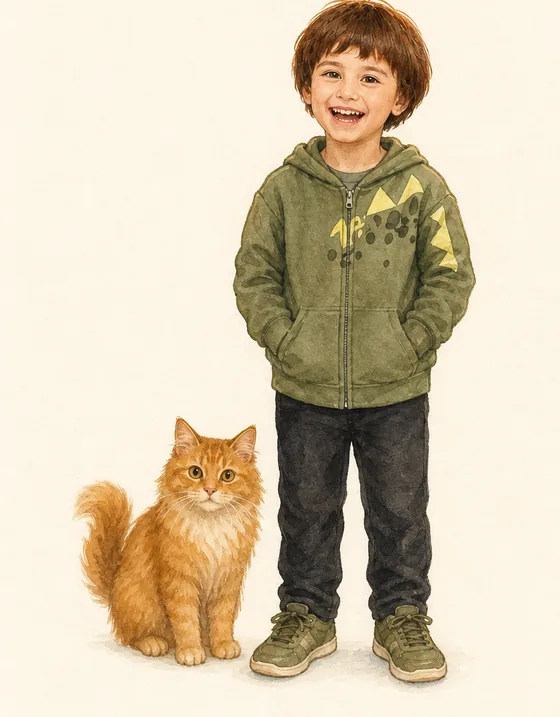
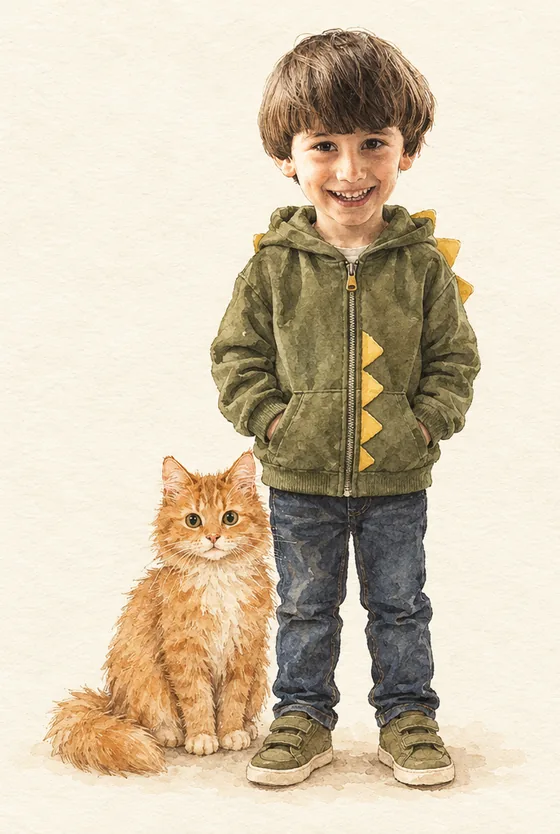
Главная: новая пара Макса «акварель / 3D» (3D перерисовано из акварели — один и тот же мальчик)

diff --git a/index.html b/index.html
@@ -169,8 +169,8 @@
         <p>Это Макс, 4 года, — один и тот же ребёнок в двух стилях. Стиль вы выбираете в анкете, а сходство с ребёнком проверяем в обоих.</p>
       </div>
       <div class="hs-row">
-        <figure><img src="assets/examples/styles/max-akvarel.webp" width="560" height="717" loading="lazy" alt="Макс в стиле «Акварель»: мальчик в зелёной кофте с рыжим котом"><figcaption><b>Акварель</b>Мягкая, как в классических детских книгах</figcaption></figure>
-        <figure><img src="assets/examples/styles/max-3d.webp" width="560" height="717" loading="lazy" alt="Макс в стиле «3D-мультфильм»: тот же мальчик с рыжим котом"><figcaption><b>3D-мультфильм</b>Объёмная, как в анимационном кино</figcaption></figure>
+        <figure><img src="assets/examples/styles/max-akvarel.webp?v=2" width="560" height="834" loading="lazy" alt="Макс в стиле «Акварель»: мальчик в зелёной толстовке с шипами динозавра и рыжий кот"><figcaption><b>Акварель</b>Мягкая, как в классических детских книгах</figcaption></figure>
+        <figure><img src="assets/examples/styles/max-3d.webp?v=2" width="560" height="834" loading="lazy" alt="Макс в стиле «3D-мультфильм»: тот же мальчик с рыжим котом"><figcaption><b>3D-мультфильм</b>Объёмная, как в анимационном кино</figcaption></figure>
       </div>
     </div>
   </div>

diff --git a/docs/redesign-plan.md b/docs/redesign-plan.md
@@ -97,5 +97,7 @@
       Промпты знака и пары «акварель / 3D» для другого ребёнка — `Desktop/geroenok-redizajn/2-znak`, `3-maks-dva-stilya`.
 - [x] Пара «акварель / 3D» на одном ребёнке (19.10): Макс, листы персонажа из отменённой акварельной книги и 3D —
       блок «Один ребёнок — два стиля на выбор» на главной после «По фото → в книге» (`assets/examples/styles/`).
+      19.10 вечер: пара заменена на новую от владелицы (акварель из ChatGPT, 3D перерисовано из неё — поэтому мальчик один и тот же;
+      исходники `Desktop/geroenok-redizajn/3-maks-dva-stilya/`). Урок: две картинки по одному фото дают разных детей — делать одну из другой.
 - [ ] Надписи зайца от руки (SVG) вместо Caveat.
 - [ ] Фотосъёмка: семья читает с планшета и распечатанную книгу, 5–8 кадров.
